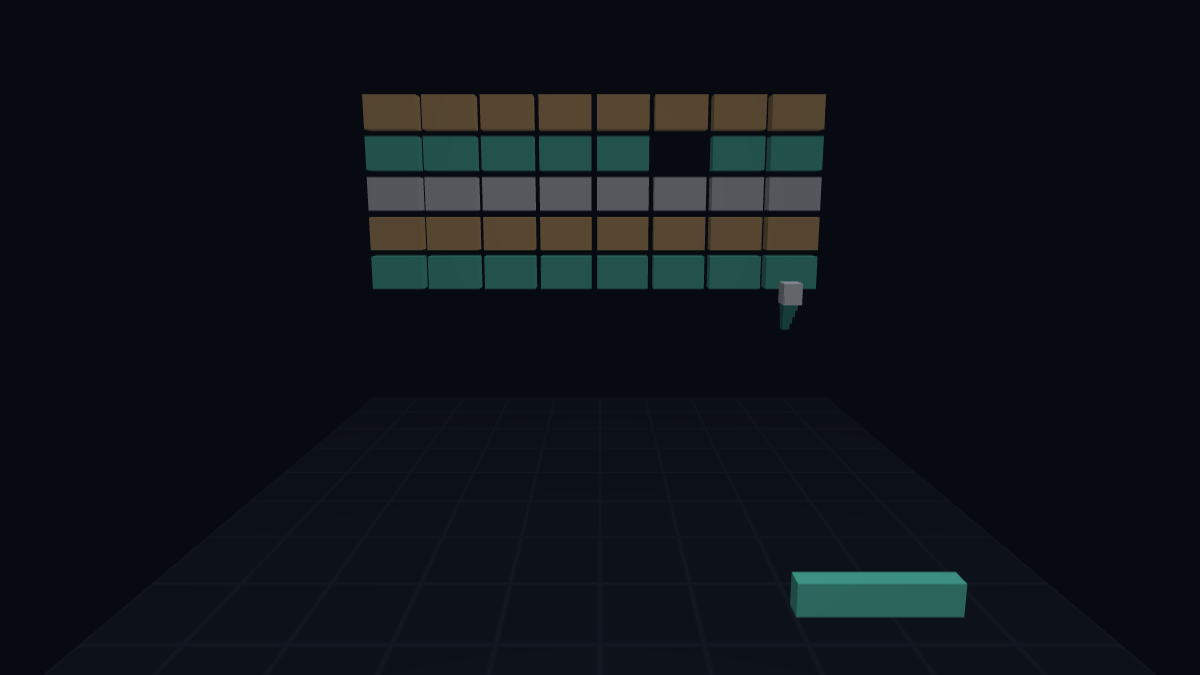
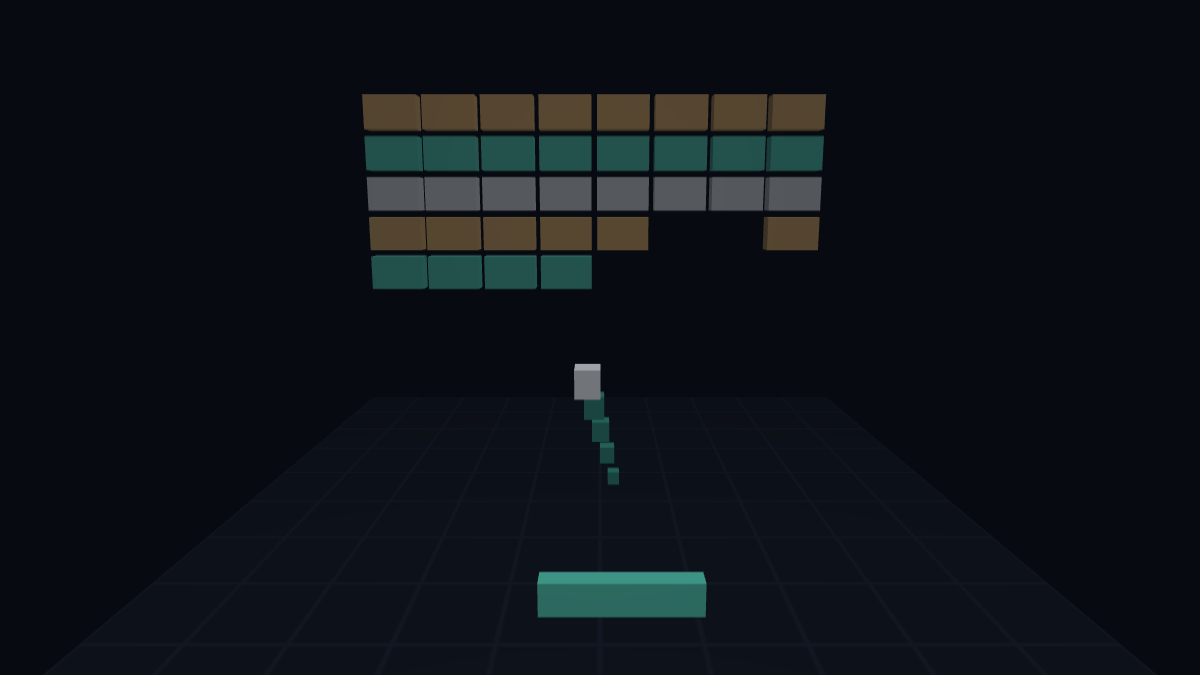
fix: classic play-plane physics — no phantom mid-air returns or vertical locks

diff --git a/src/game.js b/src/game.js
@@ -1,9 +1,17 @@
 // Breakout 3D game logic — no DOM, no WebGL. Pure state + math so Node tests,
 // the browser smoke test, and the screenshot tool all drive the same code.
+//
+// Gameplay is a classic breakout plane (x/y) at a fixed depth, rendered in 3D:
+// the ball and paddle live on the play plane, the brick wall stands behind them.
+// That keeps every bounce physical — the paddle only returns balls that reach
+// its own height — and avoids the depth-travel artefacts of a fully 3D ball.
 
 export const HALF_W = 4.0;
 export const CEILING = 6.0;
 export const BALL_R = 0.12;
+export const BALL_Z = 5.8;
+export const PADDLE_Y = 0.4;
+export const PADDLE_H = 0.3;
 export const PADDLE_Z = 6.0;
 export const PADDLE_HALF = 0.8;
 export const PADDLE_SPEED = 7.0;
@@ -12,6 +20,8 @@ export const SPEED_STEP = 0.4;
 export const MAX_SPEED = 8.0;
 export const MAX_DT = 0.05;
 export const SUB_DT = 0.02;
+export const MIN_VX = 1.2;
+export const LOST_Y = 0.2;
 export const LIVES = 3;
 export const SCORE_BRICK = 10;
 export const SCORE_LEVEL = 100;
@@ -26,15 +36,15 @@ export const COLORS = [
   [0.93, 0.95, 0.97], // off-white #eef2f8
 ];
 
-const SERVE_DIR = [0.25, 0.55, -0.79];
+const SERVE_DIR = [0.26, 0.966];
 const LOST_TIME = 0.8;
 
-const normalize3 = (v) => {
-  const len = Math.hypot(v[0], v[1], v[2]) || 1;
-  return [v[0] / len, v[1] / len, v[2] / len];
+const normalize2 = (v) => {
+  const len = Math.hypot(v[0], v[1]) || 1;
+  return [v[0] / len, v[1] / len];
 };
 
-export function createGame({ best = 0, reduced = false } = {}) {
+export function createGame({ best = 0 } = {}) {
   let allTimeBest = best;
   let state = null;
 
@@ -55,8 +65,10 @@ export function createGame({ best = 0, reduced = false } = {}) {
     return bricks;
   };
 
+  const paddleTop = () => PADDLE_Y + PADDLE_H / 2;
+
   const attachBall = () => {
-    state.ball = { x: state.paddleX, y: 0.55, z: PADDLE_Z - 0.35, vx: 0, vy: 0, vz: 0 };
+    state.ball = { x: state.paddleX, y: paddleTop() + BALL_R + 0.05, z: BALL_Z, vx: 0, vy: 0 };
   };
 
   const bricksLeft = () => state.bricks.reduce((n, b) => n + (b.alive ? 1 : 0), 0);
@@ -80,10 +92,9 @@ export function createGame({ best = 0, reduced = false } = {}) {
 
   const serve = () => {
     if (state.state !== 'ready') return;
-    const dir = normalize3(SERVE_DIR);
+    const dir = normalize2(SERVE_DIR);
     state.ball.vx = dir[0] * state.speed;
     state.ball.vy = dir[1] * state.speed;
-    state.ball.vz = dir[2] * state.speed;
     state.state = 'playing';
   };
 
@@ -92,21 +103,12 @@ export function createGame({ best = 0, reduced = false } = {}) {
     state.paddleX = Math.max(-limit, Math.min(limit, x));
     if (state.state === 'ready') {
       state.ball.x = state.paddleX;
-      state.ball.y = 0.55;
-      state.ball.z = PADDLE_Z - 0.35;
+      state.ball.y = paddleTop() + BALL_R + 0.05;
+      state.ball.z = BALL_Z;
     }
   };
 
   const nudgePaddle = (dir, dt) => setPaddle(state.paddleX + dir * PADDLE_SPEED * dt);
-
-  const hitBrick = (x, y) => {
-    for (const brick of state.bricks) {
-      if (!brick.alive) continue;
-      if (Math.abs(x - brick.x) <= brick.w / 2 + BALL_R * 0.5
-        && Math.abs(y - brick.y) <= brick.h / 2 + BALL_R * 0.5) return brick;
-    }
-    return null;
-  };
 
   const clearBrick = (brick) => {
     brick.alive = false;
@@ -125,52 +127,63 @@ export function createGame({ best = 0, reduced = false } = {}) {
 
   const stepPhysics = (dt) => {
     const ball = state.ball;
-    const prevZ = ball.z;
     ball.x += ball.vx * dt;
     ball.y += ball.vy * dt;
-    ball.z += ball.vz * dt;
 
     if (ball.x < -(HALF_W - BALL_R)) { ball.x = -(HALF_W - BALL_R); ball.vx = Math.abs(ball.vx); }
     else if (ball.x > HALF_W - BALL_R) { ball.x = HALF_W - BALL_R; ball.vx = -Math.abs(ball.vx); }
     if (ball.y > CEILING - BALL_R) { ball.y = CEILING - BALL_R; ball.vy = -Math.abs(ball.vy); }
-    else if (ball.y < BALL_R) { ball.y = BALL_R; ball.vy = Math.abs(ball.vy); }
 
-    // swept brick-plane tests: prevent tunnelling at max speed, from both sides
-    if (ball.vz < 0 && prevZ - BALL_R > BRICK_D && ball.z - BALL_R <= BRICK_D) {
-      const brick = hitBrick(ball.x, ball.y);
-      if (brick) {
-        ball.z = BRICK_D + BALL_R;
-        ball.vz = Math.abs(ball.vz);
-        if (clearBrick(brick)) return;
-      }
-    } else if (ball.vz > 0 && prevZ + BALL_R < BRICK_D && ball.z + BALL_R >= BRICK_D) {
-      // returning from the back wall: a live brick still blocks and breaks
-      const brick = hitBrick(ball.x, ball.y);
-      if (brick) {
-        ball.z = BRICK_D - BALL_R;
-        ball.vz = -Math.abs(ball.vz);
-        if (clearBrick(brick)) return;
-      }
+    // Brick collision on the play plane: pick the deepest overlap, resolve on
+    // its shallowest axis so the ball leaves through the face it entered.
+    let hit = null;
+    let deepest = 0;
+    for (const brick of state.bricks) {
+      if (!brick.alive) continue;
+      const dx = brick.w / 2 + BALL_R - Math.abs(ball.x - brick.x);
+      const dy = brick.h / 2 + BALL_R - Math.abs(ball.y - brick.y);
+      if (dx <= 0 || dy <= 0) continue;
+      const depth = Math.min(dx, dy);
+      if (depth > deepest) { deepest = depth; hit = { brick, dx, dy }; }
     }
-    if (ball.vz < 0 && ball.z - BALL_R <= 0) { ball.z = BALL_R; ball.vz = Math.abs(ball.vz); }
-
-    // paddle plane: x-shield (any y inside the paddle's x range returns the ball)
-    if (ball.vz > 0 && ball.z + BALL_R >= PADDLE_Z - 0.1) {
-      if (Math.abs(ball.x - state.paddleX) <= PADDLE_HALF + BALL_R) {
-        const offset = (ball.x - state.paddleX) / PADDLE_HALF;
-        ball.z = PADDLE_Z - 0.1 - BALL_R;
-        ball.vz = -Math.abs(ball.vz);
-        ball.vx = Math.max(-1, Math.min(1, offset)) * 3.2;
-        const dir = normalize3([ball.vx, ball.vy, ball.vz]);
-        ball.vx = dir[0] * state.speed;
-        ball.vy = dir[1] * state.speed;
-        ball.vz = dir[2] * state.speed;
+    if (hit) {
+      const { brick, dx, dy } = hit;
+      if (dx < dy) {
+        const sign = ball.x >= brick.x ? 1 : -1;
+        ball.x = brick.x + sign * (brick.w / 2 + BALL_R);
+        ball.vx = sign * Math.abs(ball.vx);
       } else {
-        state.state = 'life-lost';
-        state.lives -= 1;
-        state.lostTimer = LOST_TIME;
-        state.ball.vy = -2.4;
+        const sign = ball.y >= brick.y ? 1 : -1;
+        ball.y = brick.y + sign * (brick.h / 2 + BALL_R);
+        ball.vy = sign * Math.abs(ball.vy);
       }
+      if (clearBrick(brick)) return;
+    }
+
+    // Paddle: only a descending ball that reaches the paddle's own height and
+    // x-range is returned; anything else falls past it and is lost.
+    if (ball.vy < 0
+      && ball.y - BALL_R <= paddleTop()
+      && ball.y + BALL_R >= PADDLE_Y
+      && Math.abs(ball.x - state.paddleX) <= PADDLE_HALF + BALL_R) {
+      const offset = (ball.x - state.paddleX) / PADDLE_HALF;
+      ball.y = paddleTop() + BALL_R;
+      ball.vy = Math.abs(ball.vy);
+      let vx = Math.max(-1, Math.min(1, offset)) * 3.2;
+      if (Math.abs(vx) < MIN_VX) {
+        vx = (vx !== 0 ? Math.sign(vx) : (offset >= 0 ? 1 : -1)) * MIN_VX;
+      }
+      const dir = normalize2([vx, ball.vy]);
+      ball.vx = dir[0] * state.speed;
+      ball.vy = dir[1] * state.speed;
+      return;
+    }
+
+    if (ball.y < LOST_Y) {
+      state.state = 'life-lost';
+      state.lives -= 1;
+      state.lostTimer = LOST_TIME;
+      state.ball.vy = -2.4;
     }
   };
 
@@ -184,7 +197,6 @@ export function createGame({ best = 0, reduced = false } = {}) {
         state.ball.vy -= 9.8 * sub;
         state.ball.x += state.ball.vx * sub;
         state.ball.y += state.ball.vy * sub;
-        state.ball.z += state.ball.vz * sub;
       }
       state.lostTimer -= d;
       if (state.lostTimer <= 0) {

diff --git a/README.md b/README.md
@@ -38,9 +38,10 @@ live `?shot=1` scene (with an anti-fabrication DOM guard).
 
 ## How it works
 
-- `src/game.js` — DOM-free arena: sub-stepped physics (≤0.02 s) with a swept
-  brick-plane test so the ball cannot tunnel at max speed; paddle steering;
-  score/lives/levels; deterministic (no randomness).
+- `src/game.js` — DOM-free arena on a classic breakout play plane at a fixed
+  depth: sub-stepped physics (≤0.02 s), deepest-overlap brick resolution along
+  the shallowest axis, and a minimum horizontal component after every paddle
+  return so the ball can never lock into a vertical loop.
 - `src/gl.js` + `src/cube.js` — one shader program, one cube mesh, flat shading,
   distance fog, and a floor grid in the fragment shader (shared with the
   tower-stack-webgl demo).
@@ -49,9 +50,10 @@ live `?shot=1` scene (with an anti-fabrication DOM guard).
 
 ## Limitations
 
-- The paddle returns the ball anywhere along its x-range at any height ("x-shield"),
-  a common simplification for 3D breakout clones; the floor reflects, so the only
-  way to lose a ball is behind the paddle.
+- Gameplay is a classic 2D breakout plane rendered in 3D: the ball travels in
+  x/y at a fixed depth, the brick wall stands behind it, and the paddle only
+  returns balls that reach its own height. There is no depth travel — an earlier
+  fully-3D ball model produced phantom mid-air returns and vertical locks.
 - Bricks are one hit each; no power-ups, audio, accounts, or leaderboard.
 - Requires WebGL2; without it a fallback message is shown.
 - The smoke test runs Chrome with SwiftShader: it verifies correctness, not GPU performance.
